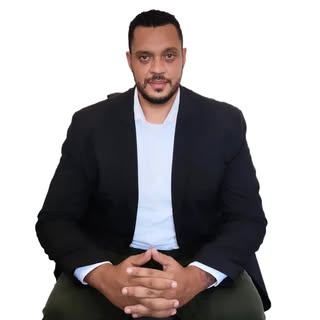
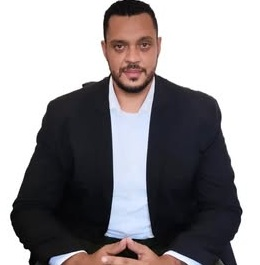
Alterando redes sociais e foto

Changed region(s): [[0.0308, 0.0, 0.9538, 1.0], [0.7385, 0.7245, 0.7692, 0.7547]]

diff --git a/index.html b/index.html
@@ -35,7 +35,7 @@
                 <p>Advogado especializado em Direito Cível e Direito Imobiliário</p>
 
                 <div class="social">
-                    <a href="#" class ="social__link" target ="_blank">
+                    <a href="https://br.linkedin.com/in/kauemoreiraoficial" class ="social__link" target ="_blank">
                         <i class="ph ph-linkedin-logo"></i>
                     </a>
 
@@ -43,7 +43,7 @@
                         <i class="ph ph-instagram-logo"></i>
                     </a>
 
-                    <a href="#" class ="social__link" target ="_blank">
+                    <a href="https://www.facebook.com/kauemoreiraadvogado/about" class ="social__link" target ="_blank">
                         <i class="ph ph-facebook-logo"></i>
                     </a>
                 </div>
@@ -57,7 +57,7 @@
             data-aos-easing="ease-in-out">
 
             <h2 class="subtitle">Sobre mim</h2>
-            <p class="sobre"> Sou Kaue Moreira dos Santos, advogado especializado em Direito Imobiliário e Direito Cível, com atuação voltada a oferecer soluções jurídicas eficazes e personalizadas. Tenho compromisso em orientar e representar meus clientes com ética, dedicação e clareza, buscando sempre os melhores resultados em cada demanda. </p>
+            <p class="sobre"> Sou Kaue Moreira dos Santos, OAB nº400.960, advogado especializado em Direito Imobiliário e Direito Cível, com atuação voltada a oferecer soluções jurídicas eficazes e personalizadas. Tenho compromisso em orientar e representar meus clientes com ética, dedicação e clareza, buscando sempre os melhores resultados em cada demanda. </p>
             <p class="sobre">📍 Av. Candapuí Sul, nº 300 – Balneário Adriana, Ilha Comprida/SP – CEP 11925-000 </p>
             <p class="sobre">📧 kauefernandoadvogado@gmail.com</p>
         </section>
